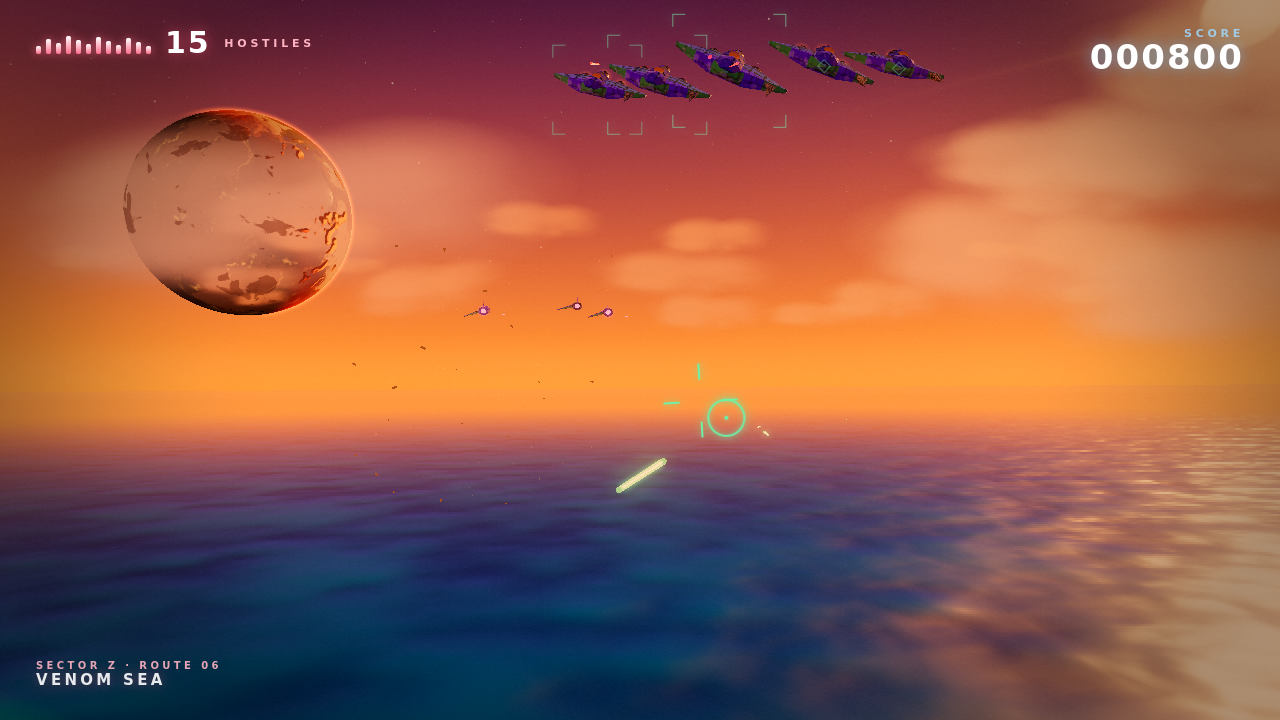
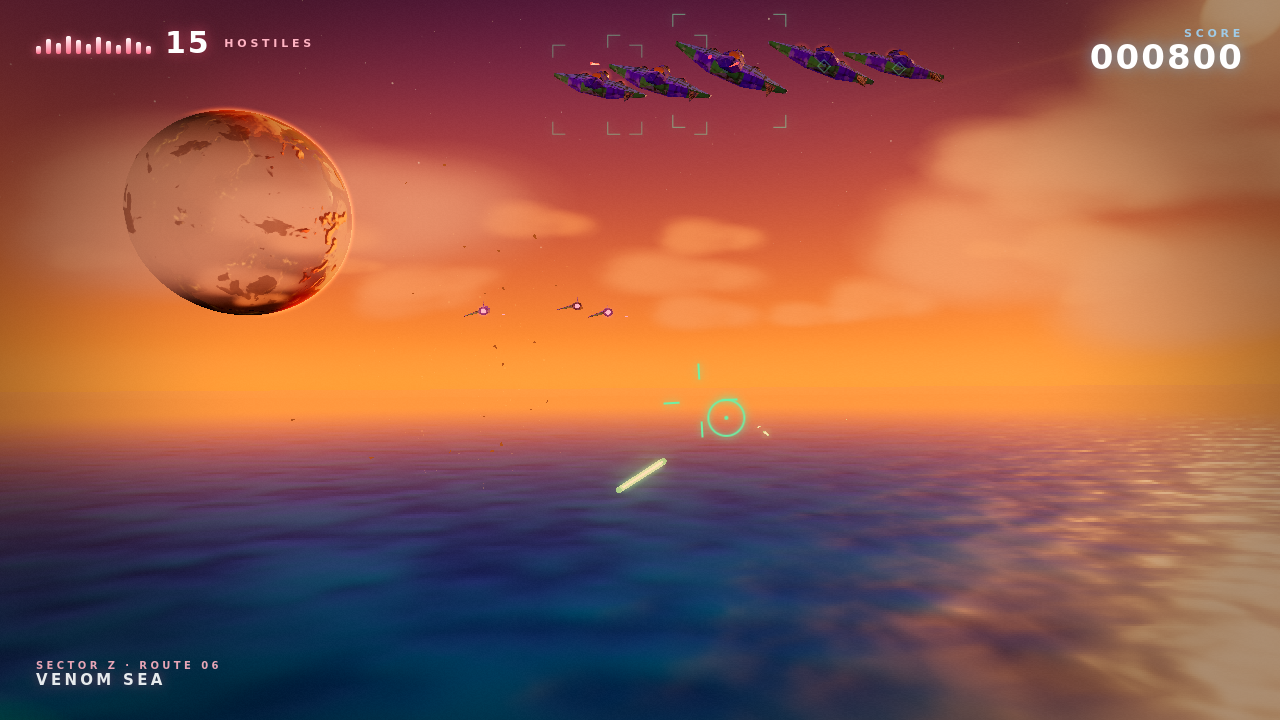
polish: art/vfx/audio round 2

diff --git a/src/pieces/spacesim/index.js b/src/pieces/spacesim/index.js
@@ -195,27 +195,68 @@ export function* createSteps(ctx, opts = {}) {
   }
 
   // ---------------- explosions
+  // Layered like the rail kit: hard white flash -> orange fireball core ->
+  // twin shockwave rings -> additive spark debris + dark rock chunks ->
+  // blotchy smoke puffs that linger after the light dies. The old pool was a
+  // single flash sprite + ring + sparks, which read as a smooth orange blob.
   const exTex = (() => {
     const cv = document.createElement('canvas'); cv.width = cv.height = 128; const g = cv.getContext('2d');
     const gr = g.createRadialGradient(64, 64, 0, 64, 64, 64); gr.addColorStop(0, 'rgba(255,255,255,1)'); gr.addColorStop(0.25, 'rgba(255,220,120,0.9)'); gr.addColorStop(0.6, 'rgba(255,110,40,0.35)'); gr.addColorStop(1, 'rgba(255,60,20,0)');
     g.fillStyle = gr; g.fillRect(0, 0, 128, 128); const t = new THREE.CanvasTexture(cv); t.colorSpace = THREE.SRGBColorSpace; return t;
   })();
+  const smokeTex = (() => {
+    // blotchy alpha puff built from offset radial blobs (local LCG — deterministic
+    // and, unlike ctx.rng, drawing it doesn't shift the gameplay random stream)
+    let sd = 977; const sr = () => (sd = (sd * 16807) % 2147483647) / 2147483647;
+    const cv = document.createElement('canvas'); cv.width = cv.height = 128; const g = cv.getContext('2d');
+    for (let i = 0; i < 30; i++) {
+      const a = sr() * 6.28, r = sr() * 30, x = 64 + Math.cos(a) * r, y = 64 + Math.sin(a) * r, rad = 12 + sr() * 20;
+      const gr = g.createRadialGradient(x, y, 0, x, y, rad);
+      gr.addColorStop(0, `rgba(255,255,255,${0.10 + sr() * 0.12})`); gr.addColorStop(1, 'rgba(255,255,255,0)');
+      g.fillStyle = gr; g.beginPath(); g.arc(x, y, rad, 0, 6.29); g.fill();
+    }
+    const m = g.createRadialGradient(64, 64, 26, 64, 64, 62);
+    m.addColorStop(0, 'rgba(0,0,0,1)'); m.addColorStop(1, 'rgba(0,0,0,0)');
+    g.globalCompositeOperation = 'destination-in'; g.fillStyle = m; g.fillRect(0, 0, 128, 128);
+    return new THREE.CanvasTexture(cv);
+  })();
   const explosions = [];
+  const _exFireCol = new THREE.Color(), _exEmber = new THREE.Color(0x6a2410);
   const exLight = new THREE.PointLight(0xffa050, 0, 120, 2); scene.add(exLight);
   for (let i = 0; i < 8; i++) {
     const s = new THREE.Sprite(new THREE.SpriteMaterial({ map: exTex, blending: THREE.AdditiveBlending, depthWrite: false, transparent: true, toneMapped: false }));
+    const fire = new THREE.Sprite(new THREE.SpriteMaterial({ map: exTex, color: 0xff9040, blending: THREE.AdditiveBlending, depthWrite: false, transparent: true, toneMapped: false }));
     const ring = new THREE.Mesh(new THREE.RingGeometry(0.86, 1, 48), new THREE.MeshBasicMaterial({ color: 0xffc070, transparent: true, blending: THREE.AdditiveBlending, depthWrite: false, side: THREE.DoubleSide, toneMapped: false }));
+    const ring2 = new THREE.Mesh(new THREE.RingGeometry(0.92, 1, 48), new THREE.MeshBasicMaterial({ color: 0xfff0c0, transparent: true, blending: THREE.AdditiveBlending, depthWrite: false, side: THREE.DoubleSide, toneMapped: false }));
     const debris = new THREE.Points(
       (() => { const g = new THREE.BufferGeometry(); const p = new Float32Array(60 * 3); const d = new Float32Array(60 * 3); for (let k = 0; k < 60; k++) { const v = new THREE.Vector3(rng.range(-1, 1), rng.range(-1, 1), rng.range(-1, 1)).normalize().multiplyScalar(0.4 + rng.next()); d[k * 3] = v.x; d[k * 3 + 1] = v.y; d[k * 3 + 2] = v.z; } g.setAttribute('position', new THREE.BufferAttribute(p, 3)); g.setAttribute('dir', new THREE.BufferAttribute(d, 3)); return g; })(),
       new THREE.PointsMaterial({ color: 0xffd090, size: 1.2, sizeAttenuation: true, transparent: true, blending: THREE.AdditiveBlending, depthWrite: false, toneMapped: false }),
     );
-    s.visible = ring.visible = debris.visible = false; scene.add(s, ring, debris);
-    explosions.push({ s, ring, debris, t: 1, dur: 0.9, scale: 1 });
+    const chunks = new THREE.Points(
+      (() => { const g = new THREE.BufferGeometry(); const p = new Float32Array(18 * 3); const d = new Float32Array(18 * 3); for (let k = 0; k < 18; k++) { const v = new THREE.Vector3(rng.range(-1, 1), rng.range(-1, 1), rng.range(-1, 1)).normalize().multiplyScalar(0.15 + rng.next() * 0.5); d[k * 3] = v.x; d[k * 3 + 1] = v.y; d[k * 3 + 2] = v.z; } g.setAttribute('position', new THREE.BufferAttribute(p, 3)); g.setAttribute('dir', new THREE.BufferAttribute(d, 3)); return g; })(),
+      new THREE.PointsMaterial({ color: 0x241f18, size: 2.6, sizeAttenuation: true, transparent: true, depthWrite: false, toneMapped: false }),
+    );
+    const smokes = [];
+    for (let k = 0; k < 3; k++) {
+      const sm = new THREE.Sprite(new THREE.SpriteMaterial({ map: smokeTex, color: 0x171410, transparent: true, depthWrite: false, opacity: 0 }));
+      sm.material.rotation = rng.range(0, 6.28);
+      smokes.push(sm);
+    }
+    s.visible = fire.visible = ring.visible = ring2.visible = debris.visible = chunks.visible = false;
+    for (const sm of smokes) { sm.visible = false; }
+    scene.add(s, fire, ring, ring2, debris, chunks, ...smokes);
+    explosions.push({ s, fire, ring, ring2, debris, chunks, smokes, t: 1, dur: 1.7, scale: 1, offs: [new THREE.Vector3(), new THREE.Vector3(), new THREE.Vector3()] });
   }
   function explode(p, scale = 1) {
     const e = explosions.find((x) => x.t >= x.dur) ?? explosions[0];
-    e.t = 0; e.scale = scale; e.s.position.copy(p); e.ring.position.copy(p); e.debris.position.copy(p); e.ring.quaternion.copy(camera.quaternion);
-    e.s.visible = e.ring.visible = e.debris.visible = true;
+    e.t = 0; e.scale = scale; e.dur = 1.35 + scale * 0.3;
+    e.s.position.copy(p); e.fire.position.copy(p); e.ring.position.copy(p); e.ring2.position.copy(p);
+    e.debris.position.copy(p); e.chunks.position.copy(p);
+    e.ring.quaternion.copy(camera.quaternion); e.ring2.quaternion.copy(camera.quaternion);
+    for (let k = 0; k < 3; k++) { e.offs[k].set(rng.range(-1, 1), rng.range(-1, 1), rng.range(-1, 1)).multiplyScalar(scale * 4); e.smokes[k].position.copy(p).add(e.offs[k]); }
+    e.s.visible = e.fire.visible = e.ring.visible = e.ring2.visible = e.debris.visible = e.chunks.visible = true;
+    e.fire.material.color.setHex(0xff9040);
+    for (const sm of e.smokes) sm.visible = true;
     if (scale > 1) { exLight.position.copy(p); exLight.intensity = 900 * scale; }
     if (!(ctx.sfx && ctx.sfx(scale > 1.4 ? 'explosionM' : 'explosionS'))) audio.noise?.({ dur: 0.5, gain: 0.25, cutoff: 600 });
   }
@@ -496,19 +537,49 @@ export function* createSteps(ctx, opts = {}) {
     hud.state.remaining = drones.filter((d) => d.dead <= 0).length; hud.state.total = drones.length; hud.state.score = mission.score;
     hud.state.targets = drones.filter((d) => d.dead <= 0).map((d) => ({ pos: d.obj.position, dist: d.obj.position.distanceTo(ship.pos), name: d.name, locked: drones.indexOf(d) === lockedIdx }));
 
-    // ---- explosions
+    // ---- explosions: each layer runs its own envelope over a shared clock
     exLight.intensity *= 1 - damp(6, dt);
     for (const e of explosions) {
       if (e.t >= e.dur) continue;
       e.t += dt; const k = e.t / e.dur;
-      const sc = e.scale * (8 + 26 * (1 - Math.pow(1 - k, 3)));
-      e.s.scale.setScalar(sc); e.s.material.opacity = Math.pow(1 - k, 1.6) * 1.4;
+      // flash: white-hot core, gone by k~0.28
+      const kf = Math.min(1, k / 0.28);
+      e.s.scale.setScalar(e.scale * (8 + 30 * (1 - Math.pow(1 - kf, 3))));
+      e.s.material.opacity = Math.pow(1 - kf, 1.5) * 1.5; e.s.visible = kf < 1;
+      // fireball: orange core swelling then cooling to embers (~k<0.7)
+      const kf2 = Math.min(1, k / 0.7);
+      e.fire.scale.setScalar(e.scale * (10 + 30 * Math.sin(kf2 * Math.PI * 0.55)));
+      e.fire.material.opacity = Math.pow(1 - kf2, 1.4) * 0.9;
+      e.fire.material.color.copy(_exFireCol).setHex(0xff9040).lerp(_exEmber, kf2);
+      e.fire.visible = kf2 < 1;
+      // twin shockwaves: primary + delayed thin trail ring
       e.ring.scale.setScalar(e.scale * (2 + 60 * (1 - Math.pow(1 - k, 2)))); e.ring.material.opacity = (1 - k) * 0.8;
+      const k2 = Math.max(0, (k - 0.08) / 0.92);
+      e.ring2.scale.setScalar(e.scale * (2 + 78 * (1 - Math.pow(1 - k2, 2)))); e.ring2.material.opacity = (1 - k2) * 0.45;
+      e.ring2.visible = k2 > 0 && k2 < 1;
+      // additive sparks outracing the fireball
       const pa = e.debris.geometry.attributes.position, da = e.debris.geometry.attributes.dir;
       const r = e.scale * 30 * (1 - Math.pow(1 - k, 2));
       for (let i = 0; i < pa.count; i++) pa.setXYZ(i, da.getX(i) * r, da.getY(i) * r, da.getZ(i) * r);
       pa.needsUpdate = true; e.debris.material.opacity = 1 - k; e.debris.material.size = e.scale * (0.5 + k);
-      if (e.t >= e.dur) e.s.visible = e.ring.visible = e.debris.visible = false;
+      // dark rock chunks sail a bit further, lit only by silhouette
+      const pc = e.chunks.geometry.attributes.position, dc = e.chunks.geometry.attributes.dir;
+      const rc = e.scale * 22 * (1 - Math.pow(1 - k, 2));
+      for (let i = 0; i < pc.count; i++) pc.setXYZ(i, dc.getX(i) * rc, dc.getY(i) * rc, dc.getZ(i) * rc);
+      pc.needsUpdate = true; e.chunks.material.opacity = Math.max(0, 1 - k * 1.4);
+      // smoke: puffs that bloom late and drift, masking the additive layers' cutoff
+      for (let i = 0; i < 3; i++) {
+        const ks = Math.max(0, Math.min(1, (k - 0.06 * i) / (1 - 0.06 * i)));
+        const sm = e.smokes[i];
+        sm.scale.setScalar(e.scale * (8 + ks * 30));
+        sm.material.opacity = Math.sin(Math.min(1, ks * 1.5) * Math.PI * 0.5) * (1 - ks) * 0.62;
+        sm.visible = sm.material.opacity > 0.01;
+        sm.position.copy(e.s.position).addScaledVector(e.offs[i], 1 + ks);
+      }
+      if (e.t >= e.dur) {
+        e.s.visible = e.fire.visible = e.ring.visible = e.ring2.visible = e.debris.visible = e.chunks.visible = false;
+        for (const sm of e.smokes) sm.visible = false;
+      }
     }
 
     // ---- belt wrap + spin, planet spin

diff --git a/src/pieces/audio/sfx.js b/src/pieces/audio/sfx.js
@@ -24,14 +24,22 @@ export const SFX = {
   charge: {
     label: 'CHARGE SHOT', key: 'charge', color: '#8cf7ff', duck: 0.2,
     play(s, t) {
+      // rising whine while the ball builds — the launch is 'charged', played
+      // separately so the release lands when the player actually lets go
       s.note({ inst: A(SIN, 0.05, 0.9, 1, 0.25, 0.22), f0: 180, f1: 1400, t, dur: 0.9, out: 'sfx', unison: 1 });
       s.note({ inst: A(SAW, 0.1, 0.9, 1, 0.25, 0.1, { band: [400, 5000] }), f0: 90, f1: 700, t, dur: 0.9, out: 'sfx', unison: 3, detune: 20, vib: 40 });
       s.noise({ t, dur: 1.1, lo: 300, hi: 1200, lo1: 3000, hi1: 9000, gain: 0.12, out: 'sfx', a: 0.3 });
-      // release: big bolt
-      const r = t + 0.95;
-      s.note({ inst: A(SQ, 0.003, 0.25, 0, 0.12, 0.3, { band: [3000, 800] }), f0: 1400, f1: 120, t: r, dur: 0.28, out: 'sfx', unison: 2, detune: 15 });
-      s.noise({ t: r, dur: 0.3, lo: 200, hi: 6000, lo1: 80, hi1: 900, gain: 0.3, out: 'sfx' });
-      s.hit('laser', 1, r);
+    },
+  },
+  charged: {
+    label: 'CHARGE RELEASE', key: 'charged', color: '#b8faff', duck: 0.35,
+    play(s, t) {
+      // homing bolt launch: hot chirp + air burst + sub punch so it reads
+      // heavier than the twin-laser 'laser'
+      s.note({ inst: A(SQ, 0.003, 0.25, 0, 0.12, 0.3, { band: [3000, 800] }), f0: 1400, f1: 120, t, dur: 0.28, out: 'sfx', unison: 2, detune: 15 });
+      s.noise({ t, dur: 0.3, lo: 200, hi: 6000, lo1: 80, hi1: 900, gain: 0.3, out: 'sfx' });
+      s.note({ inst: A(SIN, 0.002, 0.22, 0, 0.1, 0.45, { sweep: 2.2 }), f0: 160, f1: 55, t, dur: 0.2, out: 'sfx', unison: 1 });
+      s.hit('laser', 1, t);
     },
   },
   lockon: {
@@ -103,6 +111,17 @@ export const SFX = {
       s.note({ inst: A(SQ, 0.001, 0.07, 0, 0.04, 0.2, { band: [3000, 1500] }), f0: 2600, f1: 900, t, dur: 0.06, out: 'sfx', unison: 1 });
       s.note({ inst: A(SIN, 0.001, 0.09, 0, 0.05, 0.3, { sweep: 1.8 }), f0: 140, t, dur: 0.08, out: 'sfx', unison: 1 });
       s.hit('hit', 0.6, t);
+    },
+  },
+  hurt: {
+    label: 'HULL HIT', key: 'hurt', color: '#ff7a5a', duck: 0.3,
+    play(s, t) {
+      // the PLAYER takes damage — darker and heavier than 'hit' (which is the
+      // pew-pew impact on an enemy), so damage reads even mid-dogfight
+      s.noise({ t, dur: 0.16, lo: 400, hi: 4000, lo1: 100, hi1: 800, gain: 0.45, out: 'sfx' });
+      s.note({ inst: A(SAW, 0.002, 0.18, 0, 0.1, 0.28, { band: [1500, 300] }), f0: 340, f1: 70, t, dur: 0.2, out: 'sfx', unison: 2, detune: 25 });
+      s.note({ inst: A(SIN, 0.002, 0.3, 0, 0.15, 0.5, { sweep: 2.6 }), f0: 95, f1: 38, t, dur: 0.3, out: 'sfx', unison: 1 });
+      s.hit('boom', 0.4, t);
     },
   },
   alarm: {
@@ -188,4 +207,4 @@ export const SFX = {
   },
 };
 
-export const SFX_ORDER = ['laser', 'charge', 'lockon', 'boost', 'brake', 'roll', 'explosionS', 'explosionM', 'explosionL', 'hit', 'alarm', 'select', 'confirm', 'comm', 'victory', 'jump', 'land', 'ring', 'door'];
+export const SFX_ORDER = ['laser', 'charge', 'charged', 'lockon', 'boost', 'brake', 'roll', 'explosionS', 'explosionM', 'explosionL', 'hit', 'hurt', 'alarm', 'select', 'confirm', 'comm', 'victory', 'jump', 'land', 'ring', 'door'];

diff --git a/src/game/rail.js b/src/game/rail.js
@@ -117,6 +117,12 @@ export function beginRail(ctx, game, hudMod) {
     time: 0, done: false, ending: false,
   };
   let railX = 0, railVX = 0, lockE = null, lockT = 0, zone = '', laserSfxT = 0;
+  // charge shot (hold fire ~0.55s): plasma ball builds at the nose, paints the
+  // locked target with a beam, and homes on release. lockProxy re-exposes the
+  // enemy the ChargeShot is tracking (its contract wants { pos, radius, dead }).
+  let chargeHold = 0;
+  const lockProxy = { pos: new THREE.Vector3(), radius: 2.5, dead: true, enemy: null };
+  const chargeMuzzle = { pos: new THREE.Vector3(), dir: new THREE.Vector3(0, 0, -1) };
   const camPos = new THREE.Vector3(0, 7, 12), camLook = new THREE.Vector3(0, 3, -60);
   const shipWorld = new THREE.Vector3(), aimDir = new THREE.Vector3(0, 0, -1), muzzleW = new THREE.Vector3();
   const offs = [];
@@ -232,7 +238,7 @@ export function beginRail(ctx, game, hudMod) {
     offs.push(events.on('player:hit', ({ position }) => {
       if (S.invuln > 0 || S.ending) { vfx.hitSparks(position, tmp.set(0, 0, 1), { color: new THREE.Color(0.4, 0.8, 1), scale: 1.2 }); return; }
       S.shield = Math.max(0, S.shield - 0.07); hud.damage(0.07); S.shake = Math.max(S.shake, 0.7); vfx.shake(0.35); look.flash(0.12); S.invuln = 0.4;
-      audio?.sfx('hit');
+      audio?.sfx('hurt');
       if (S.shield <= 0) {
         vfx.explode(shipWorld, S.lives > 0 ? 1.2 : 2.6, { flash: S.lives === 0 });
         audio?.sfx('explosionM'); look.flash(0.8); vfx.shake(1.0);
@@ -374,9 +380,32 @@ export function beginRail(ctx, game, hudMod) {
     } else hud.setLock(null);
     hud.setAim(ax * 0.7 + S.yaw * -1.5, ay * 0.55 + S.pitch * 1.2);
 
-    // --- fire
+    // --- fire: tap = twin laser stream; hold ~0.55s+ charges a homing plasma ball
     S.fireCool -= dt;
-    if (input.isHeld('fire') && S.fireCool <= 0 && !S.ending) {
+    const fireHeld = input.isHeld('fire') && !S.ending && !S.dead;
+    const charge = vfx.charge;
+    if (fireHeld) {
+      chargeHold += dt;
+      if (chargeHold > 0.55 && charge.state === 'idle') { charge.begin(() => chargeMuzzle); audio?.sfx('charge'); }
+    } else {
+      chargeHold = 0;
+      if (charge.state === 'charging') {
+        charge.release((tgt, pos) => {
+          const e = tgt && tgt.enemy;
+          if (e && e.state === 'fly') em.damage(e, 6, pos);
+          audio?.sfx('charged'); vfx.shake(0.4); look.flash(0.15);
+        });
+      }
+    }
+    if (charge.state === 'charging') {
+      chargeMuzzle.pos.copy(shipWorld).addScaledVector(aimDir, 1.6);
+      chargeMuzzle.dir.copy(aimDir);
+      if (lockE && lockE.state === 'fly') {
+        lockProxy.pos.copy(lockE.pos); lockProxy.radius = Math.max(2, lockE.radius ?? 2);
+        lockProxy.dead = lockE.state !== 'fly'; lockProxy.enemy = lockE; charge.lock(lockProxy);
+      } else charge.lock(null);
+    }
+    if (fireHeld && S.fireCool <= 0 && charge.state === 'idle') {
       S.fireCool = 0.13; S.recoil = 1; S.shake = Math.max(S.shake, 0.15); S.shots += 2;
       arwing.rig.updateWorldMatrix(true, false);
       // aim assist: lead the locked target if the reticle is near it

diff --git a/src/pieces/boss/index.js b/src/pieces/boss/index.js
@@ -165,6 +165,7 @@ export function* createSteps(ctx, opts = {}) {
     hit: () => { if (!bank('hit')) audio.tone({ type: 'triangle', f0: 800, f1: 300, dur: 0.06, gain: 0.05 }); },
     boom: (g = 0.4) => { if (bank(g > 0.7 ? 'explosionL' : g > 0.4 ? 'explosionM' : 'explosionS')) return; audio.noise({ dur: 1.2, gain: g, cutoff: 500 }); audio.tone({ type: 'sine', f0: 90, f1: 30, dur: 0.8, gain: g * 0.6 }); },
     warn: () => { if (bank('alarm')) return; audio.tone({ type: 'square', f0: 660, f1: 660, dur: 0.14, gain: 0.08 }); setTimeout(() => audio.tone({ type: 'square', f0: 660, f1: 660, dur: 0.14, gain: 0.08 }), 200); },
+    hurt: () => { if (!bank('hurt')) { audio.tone({ type: 'sawtooth', f0: 320, f1: 60, dur: 0.22, gain: 0.2 }); audio.noise({ dur: 0.15, gain: 0.3, cutoff: 900 }); } },
     beam: () => { if (!bank('charge')) audio.noise({ dur: 1.6, gain: 0.25, cutoff: 2400, q: 2 }); },
     shatter: () => { if (bank('explosionM')) return; audio.noise({ dur: 0.6, gain: 0.35, cutoff: 3000 }); audio.tone({ type: 'sawtooth', f0: 300, f1: 60, dur: 0.5, gain: 0.2 }); },
   };
@@ -425,7 +426,7 @@ export function* createSteps(ctx, opts = {}) {
     // missiles vs player
     missiles.onDetonate = (m) => {
       const d = m.g.position.distanceTo(P.pos);
-      if (d < 10 && P.roll <= 0) { P.shield -= 0.12; P.hurt = 1; S.shake = Math.max(S.shake, 0.7); S.flash = Math.max(S.flash, 0.15); }
+      if (d < 10 && P.roll <= 0) { P.shield -= 0.12; P.hurt = 1; S.shake = Math.max(S.shake, 0.7); S.flash = Math.max(S.flash, 0.15); sfx.hurt(); }
     };
     // barrel roll deflects nearby missiles
     if (P.roll > 0) for (const m of missiles.pool) if (m.active && m.g.position.distanceTo(P.pos) < 9) { missiles.detonate(m); S.hits++; }
@@ -435,7 +436,7 @@ export function* createSteps(ctx, opts = {}) {
       if (b.firing) {
         const seg = V.a.copy(b.to).sub(b.from); const tt = THREE.MathUtils.clamp(V.b.copy(P.pos).sub(b.from).dot(seg) / seg.lengthSq(), 0, 1);
         const d = V.c.copy(b.from).addScaledVector(seg, tt).distanceTo(P.pos);
-        if (d < 5) { P.shield -= dtS * 0.35; P.hurt = 1; S.shake = Math.max(S.shake, 0.5); }
+        if (d < 5) { if (P.hurt < 0.2) sfx.hurt(); P.shield -= dtS * 0.35; P.hurt = 1; S.shake = Math.max(S.shake, 0.5); }
         // beam impact sparks along the far end
         if (Math.random() < 0.7) sparks.emit(b.to, V.d.set((Math.random() - 0.5) * 40, (Math.random() - 0.5) * 40, 30 + Math.random() * 30), { life: 0.5, size: 2.5, drag: 2, c0: [2.5, 1.2, 0.6], c1: [1, 0.2, 0.1] });
       }

diff --git a/src/pieces/spacesim/asteroids.js b/src/pieces/spacesim/asteroids.js
@@ -253,17 +253,22 @@ const ROCK_FRAG = /* glsl */ `
     float diff = smoothstep(-0.04, 0.32, ndl) * (0.55 + 0.45 * max(ndl, 0.0));
     // crater walls facing away from the sun fall into shadow even on the lit hemisphere
     diff *= mix(1.0, smoothstep(-0.15, 0.25, ndl), smoothstep(0.0, -0.05, relief) * 0.8);
-    diff *= smoothstep(-0.25, 0.05, ndlG);                  // geometric terminator (no light leaking round the back)
+    diff *= smoothstep(-0.42, 0.04, ndlG);                  // geometric terminator (no light leaking round the back)
     vec3 H = normalize(uSunDir + V);
     float shin = mix(90.0, 14.0, rough);
     float fres = pow(1.0 - max(dot(N, V), 0.0), 4.0);
     float spec = pow(max(dot(Nb, H), 0.0), shin) * specK * (0.35 + fres * 1.6) * smoothstep(0.0, 0.2, ndl) * (shin + 8.0) / 60.0;
-    vec3 amb = mix(uHemiGround, uHemiSky, N.y * 0.5 + 0.5) * 0.20;
+    // Ambient: the shadow side used to sit at ~2-7% reflectance — whole rock faces
+    // read as flat black masses, especially the colossal heroes that fill a frame.
+    // Lift the hemisphere + counter-sun fill so basins/rims still read in shade,
+    // and add a small flat floor for the deep-space bounce off the belt itself.
+    vec3 amb = mix(uHemiGround, uHemiSky, N.y * 0.5 + 0.5) * 0.34;
     float fd = max(dot(Nb, uFillDir), 0.0);
-    vec3 col = albedo * (uSunCol * diff * 1.55 + amb + uFillCol * fd * 0.16) * ao;
+    vec3 col = albedo * (uSunCol * diff * 1.55 + amb + uFillCol * fd * 0.24 + vec3(0.018, 0.020, 0.030)) * ao;
     col += uSunCol * spec * (0.7 + 0.3 * fleck) * (1.0 - hollow * 0.5) * ao;
-    // rim: warm on the lit limb, faint cool sky rim on the dark limb
-    col += fres * (uSunCol * 0.9 * smoothstep(-0.1, 0.4, ndlG) + uHemiSky * 0.18) * (albedo * 0.8 + 0.12);
+    // rim: warm on the lit limb, cool sky rim on the dark limb (a touch stronger
+    // so a backlit rock still separates from the nebula behind it)
+    col += fres * (uSunCol * 0.9 * smoothstep(-0.1, 0.4, ndlG) + uHemiSky * 0.30) * (albedo * 0.8 + 0.12);
     col += emis;
     // depth haze toward the nebula so far rocks recede and heroes wrap unseen
     col = mix(col, uHaze, 1.0 - exp(-dist * uHazeDensity));

diff --git a/src/pieces/audio/api.js b/src/pieces/audio/api.js
@@ -8,16 +8,18 @@
  *   audio.update(dt)                       // call once per frame (drives scheduler + ducking + analysis)
  *
  * SFX NAMES (canonical):
- *   'laser'      twin laser bolt          'charge'     charge-up + big bolt (1s)
- *   'lockon'     lock-on triple beep      'boost'      boost whoosh
- *   'brake'      brake whine              'roll'       barrel roll
+ *   'laser'      twin laser bolt          'charge'     charge-up whine
+ *   'charged'    charge-release launch    'lockon'     lock-on triple beep
+ *   'boost'      boost whoosh             'brake'      brake whine
+ *   'roll'       barrel roll
  *   'explosionS' / 'explosionM' / 'explosionL'  small / medium / large explosion
- *   'hit'        player hit               'alarm'      danger alarm (4 pulses)
+ *   'hit'        bolt impact on enemy     'hurt'       player hull damage
+ *   'alarm'      danger alarm (4 pulses)
  *   'select'     UI cursor move           'confirm'    UI confirm chime
  *   'comm'       incoming-transmission chirp
  * ALIASES (also accepted): menu/cursor/ui -> select, ok/accept/start -> confirm, lock/target -> lockon,
  *   fire/shot/shoot -> laser, bomb/nova -> explosionL, explosion -> explosionM, barrel/barrelroll -> roll,
- *   damage/hurt -> hit, radio/transmission -> comm, warning -> alarm.
+ *   damage/hurt -> hurt, impact -> hit, radio/transmission -> comm, warning -> alarm.
  */
 import { createAudio as createSynth } from './synth.js';
 import { createSequencer, SONGS } from './music.js';
@@ -31,7 +33,7 @@ export const SFX_ALIASES = {
   fire: 'laser', shot: 'laser', shoot: 'laser', twinlaser: 'laser',
   bomb: 'explosionL', nova: 'explosionL', explosion: 'explosionM', explode: 'explosionM', explosionSmall: 'explosionS', explosionLarge: 'explosionL',
   barrel: 'roll', barrelroll: 'roll', barrelRoll: 'roll',
-  damage: 'hit', hurt: 'hit', impact: 'hit',
+  damage: 'hurt', hull: 'hurt', impact: 'hit',
   radio: 'comm', transmission: 'comm', chirp: 'comm',
   warning: 'alarm', danger: 'alarm',
   win: 'victory', fanfare: 'victory', sting: 'victory',

diff --git a/src/pieces/_shared/overlay.js b/src/pieces/_shared/overlay.js
@@ -15,9 +15,9 @@ const CSS = `
 .gm-cap .t{font:900 clamp(34px,6vw,84px)/1 ${FONT};letter-spacing:.14em;margin-top:14px;font-style:italic;text-shadow:0 3px 0 rgba(0,0,0,.45),0 0 28px rgba(150,200,255,.35)}
 .gm-cap .s{font:600 clamp(11px,1.1vw,15px)/1 ${FONT};letter-spacing:.4em;opacity:.75;margin-top:16px}
 .gm-cap .rule{height:2px;width:0;margin:18px auto 0;background:linear-gradient(90deg,rgba(143,198,255,0),#8fc6ff,rgba(143,198,255,0))}
-.gm-obj{position:absolute;left:50%;top:5.5%;transform:translateX(-50%) skewX(-8deg);text-align:center;opacity:0;transition:opacity .35s}
-.gm-obj .l{font:800 clamp(9px,.9vw,12px)/1 ${FONT};letter-spacing:.5em;color:#ffd27a;text-shadow:0 0 10px rgba(255,190,90,.7)}
-.gm-obj .v{font:900 clamp(16px,2vw,26px)/1.1 ${FONT};letter-spacing:.22em;margin-top:6px;text-shadow:0 2px 4px rgba(0,0,0,.6),0 0 18px rgba(255,220,150,.35)}
+.gm-obj{position:absolute;left:50%;top:5.5%;transform:translateX(-50%) skewX(-8deg);text-align:center;opacity:0;transition:opacity .35s;padding:9px 34px;background:linear-gradient(90deg,rgba(5,10,22,0) 0%,rgba(5,10,22,.6) 14%,rgba(5,10,22,.6) 86%,rgba(5,10,22,0) 100%)}
+.gm-obj .l{font:800 clamp(9px,.9vw,12px)/1 ${FONT};letter-spacing:.5em;color:#ffd27a;text-shadow:0 1px 3px rgba(0,0,0,.8),0 0 10px rgba(255,190,90,.7)}
+.gm-obj .v{font:900 clamp(16px,2vw,26px)/1.1 ${FONT};letter-spacing:.22em;margin-top:6px;text-shadow:0 2px 5px rgba(0,0,0,.85),0 0 18px rgba(255,220,150,.35)}
 .gm-pause{position:absolute;inset:0;background:radial-gradient(ellipse at center,rgba(4,10,26,.72),rgba(0,0,0,.9));display:flex;flex-direction:column;align-items:center;justify-content:center;opacity:0;transition:opacity .2s;backdrop-filter:blur(3px)}
 .gm-pause .t{font:900 clamp(40px,7vw,96px)/1 ${FONT};letter-spacing:.3em;font-style:italic;text-shadow:0 0 30px rgba(120,190,255,.5)}
 .gm-pause .h{font:600 clamp(11px,1.1vw,15px)/2 ${FONT};letter-spacing:.35em;opacity:.7;margin-top:22px;text-align:center}

diff --git a/src/pieces/onfoot/hud.js b/src/pieces/onfoot/hud.js
@@ -19,7 +19,7 @@ export function makeHud(ui, opts = {}) {
     .of-key{display:inline-flex;align-items:center;justify-content:center;min-width:30px;height:30px;padding:0 8px;border:2px solid #57d6ff;border-radius:6px;background:rgba(10,30,50,.7);color:#bff2ff;font-weight:800;box-shadow:0 0 14px rgba(87,214,255,.5)}
     .of-ctl{position:absolute;left:36px;bottom:30px;display:flex;gap:18px;font-size:11px;letter-spacing:.22em;opacity:.65}
     .of-ctl span b{display:inline-block;padding:1px 6px;border:1px solid rgba(160,220,255,.6);border-radius:4px;margin-right:6px;font-weight:600}
-    .of-flash{position:absolute;left:50%;top:22%;transform:translateX(-50%);font-size:22px;font-weight:700;letter-spacing:.3em;color:#bfffd8;text-shadow:0 0 18px rgba(64,255,128,.8);opacity:0;transition:opacity .3s}
+    .of-flash{position:absolute;left:50%;top:22%;transform:translateX(-50%);font-size:22px;font-weight:700;letter-spacing:.3em;color:#bfffd8;padding:12px 30px;background:rgba(4,16,10,.74);border:1px solid rgba(64,255,128,.4);border-radius:6px;box-shadow:0 4px 24px rgba(0,0,0,.55),inset 0 0 18px rgba(64,255,128,.08);text-shadow:0 2px 6px rgba(0,0,0,.8),0 0 18px rgba(64,255,128,.8);opacity:0;transition:opacity .3s;white-space:nowrap}
     .of-flash.on{opacity:1}
     .of-reticle{position:absolute;left:50%;top:50%;width:46px;height:46px;transform:translate(-50%,-50%);opacity:0;transition:opacity .15s}
     .of-reticle.on{opacity:.9}

diff --git a/src/pieces/vfx/vfx.js b/src/pieces/vfx/vfx.js
@@ -344,7 +344,9 @@ class ChargeShot {
       if (tgt && this.pos.distanceTo(tgt.pos) < (tgt.radius ?? 1.5) + this.radius) hit = true;
       if (hit || this.age > 2.5) {
         if (hit && this.onHit) this.onHit(tgt, this.pos);
-        vfx.explode(this.pos, 3.2, { color: this.color, hot: PALETTE.boostHot });
+        // a mid-air expiry should fizzle, not screen-fill: full layered boom
+        // only when the bolt actually connects
+        vfx.explode(this.pos, hit ? 3.2 : 1.3, { color: this.color, hot: PALETTE.boostHot });
         this.cancel();
       }
     }
